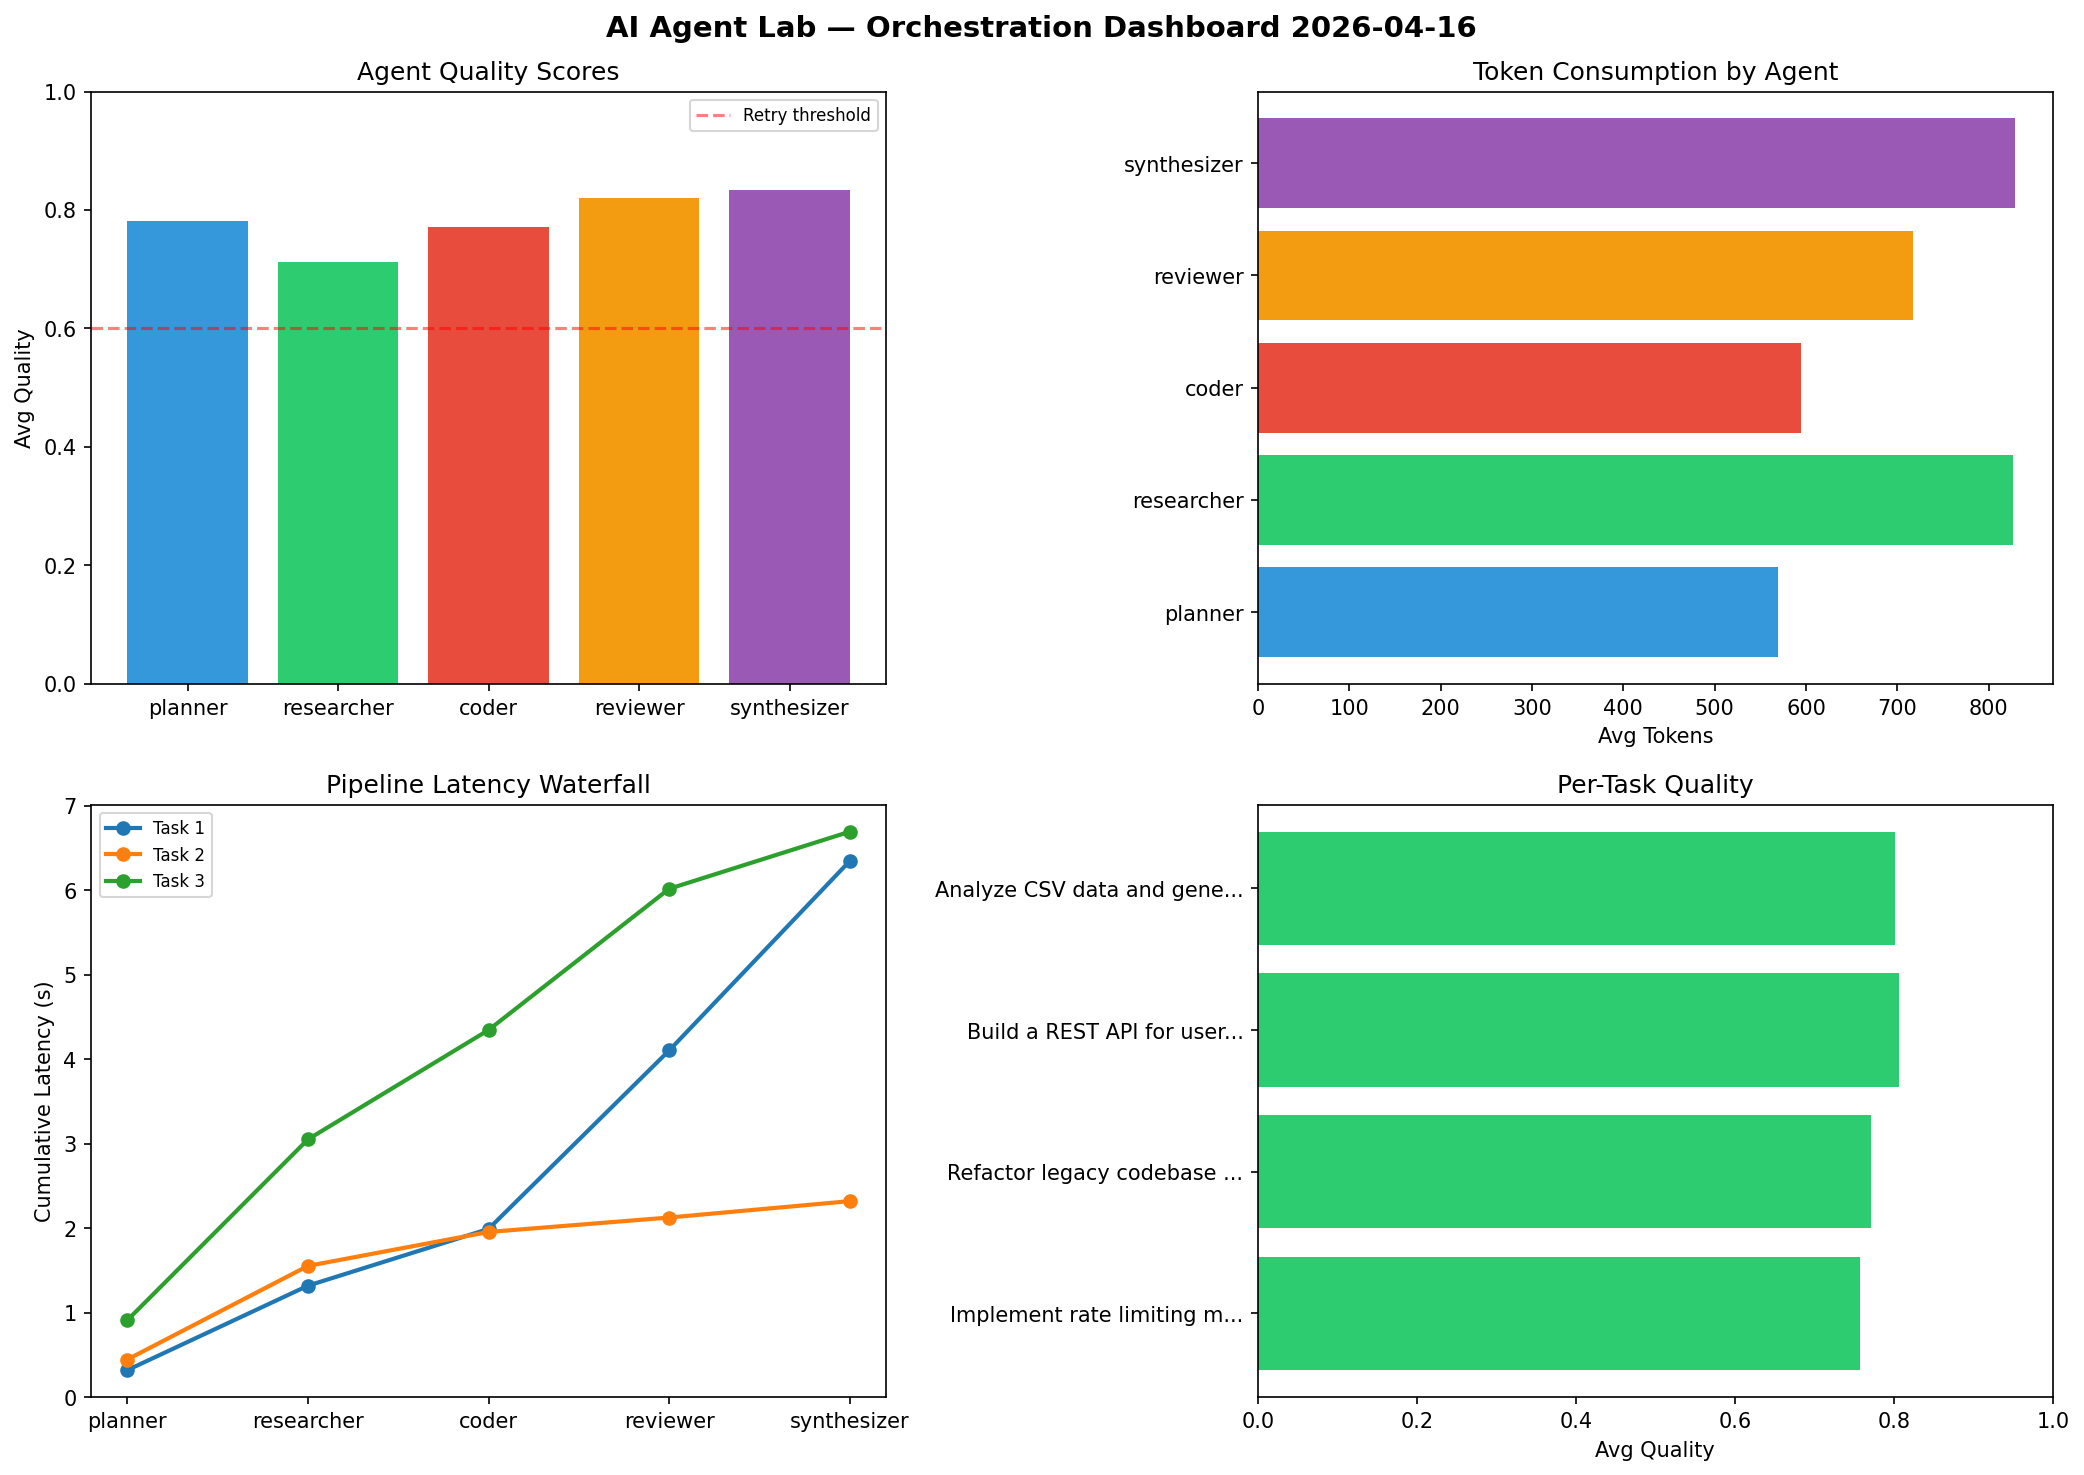
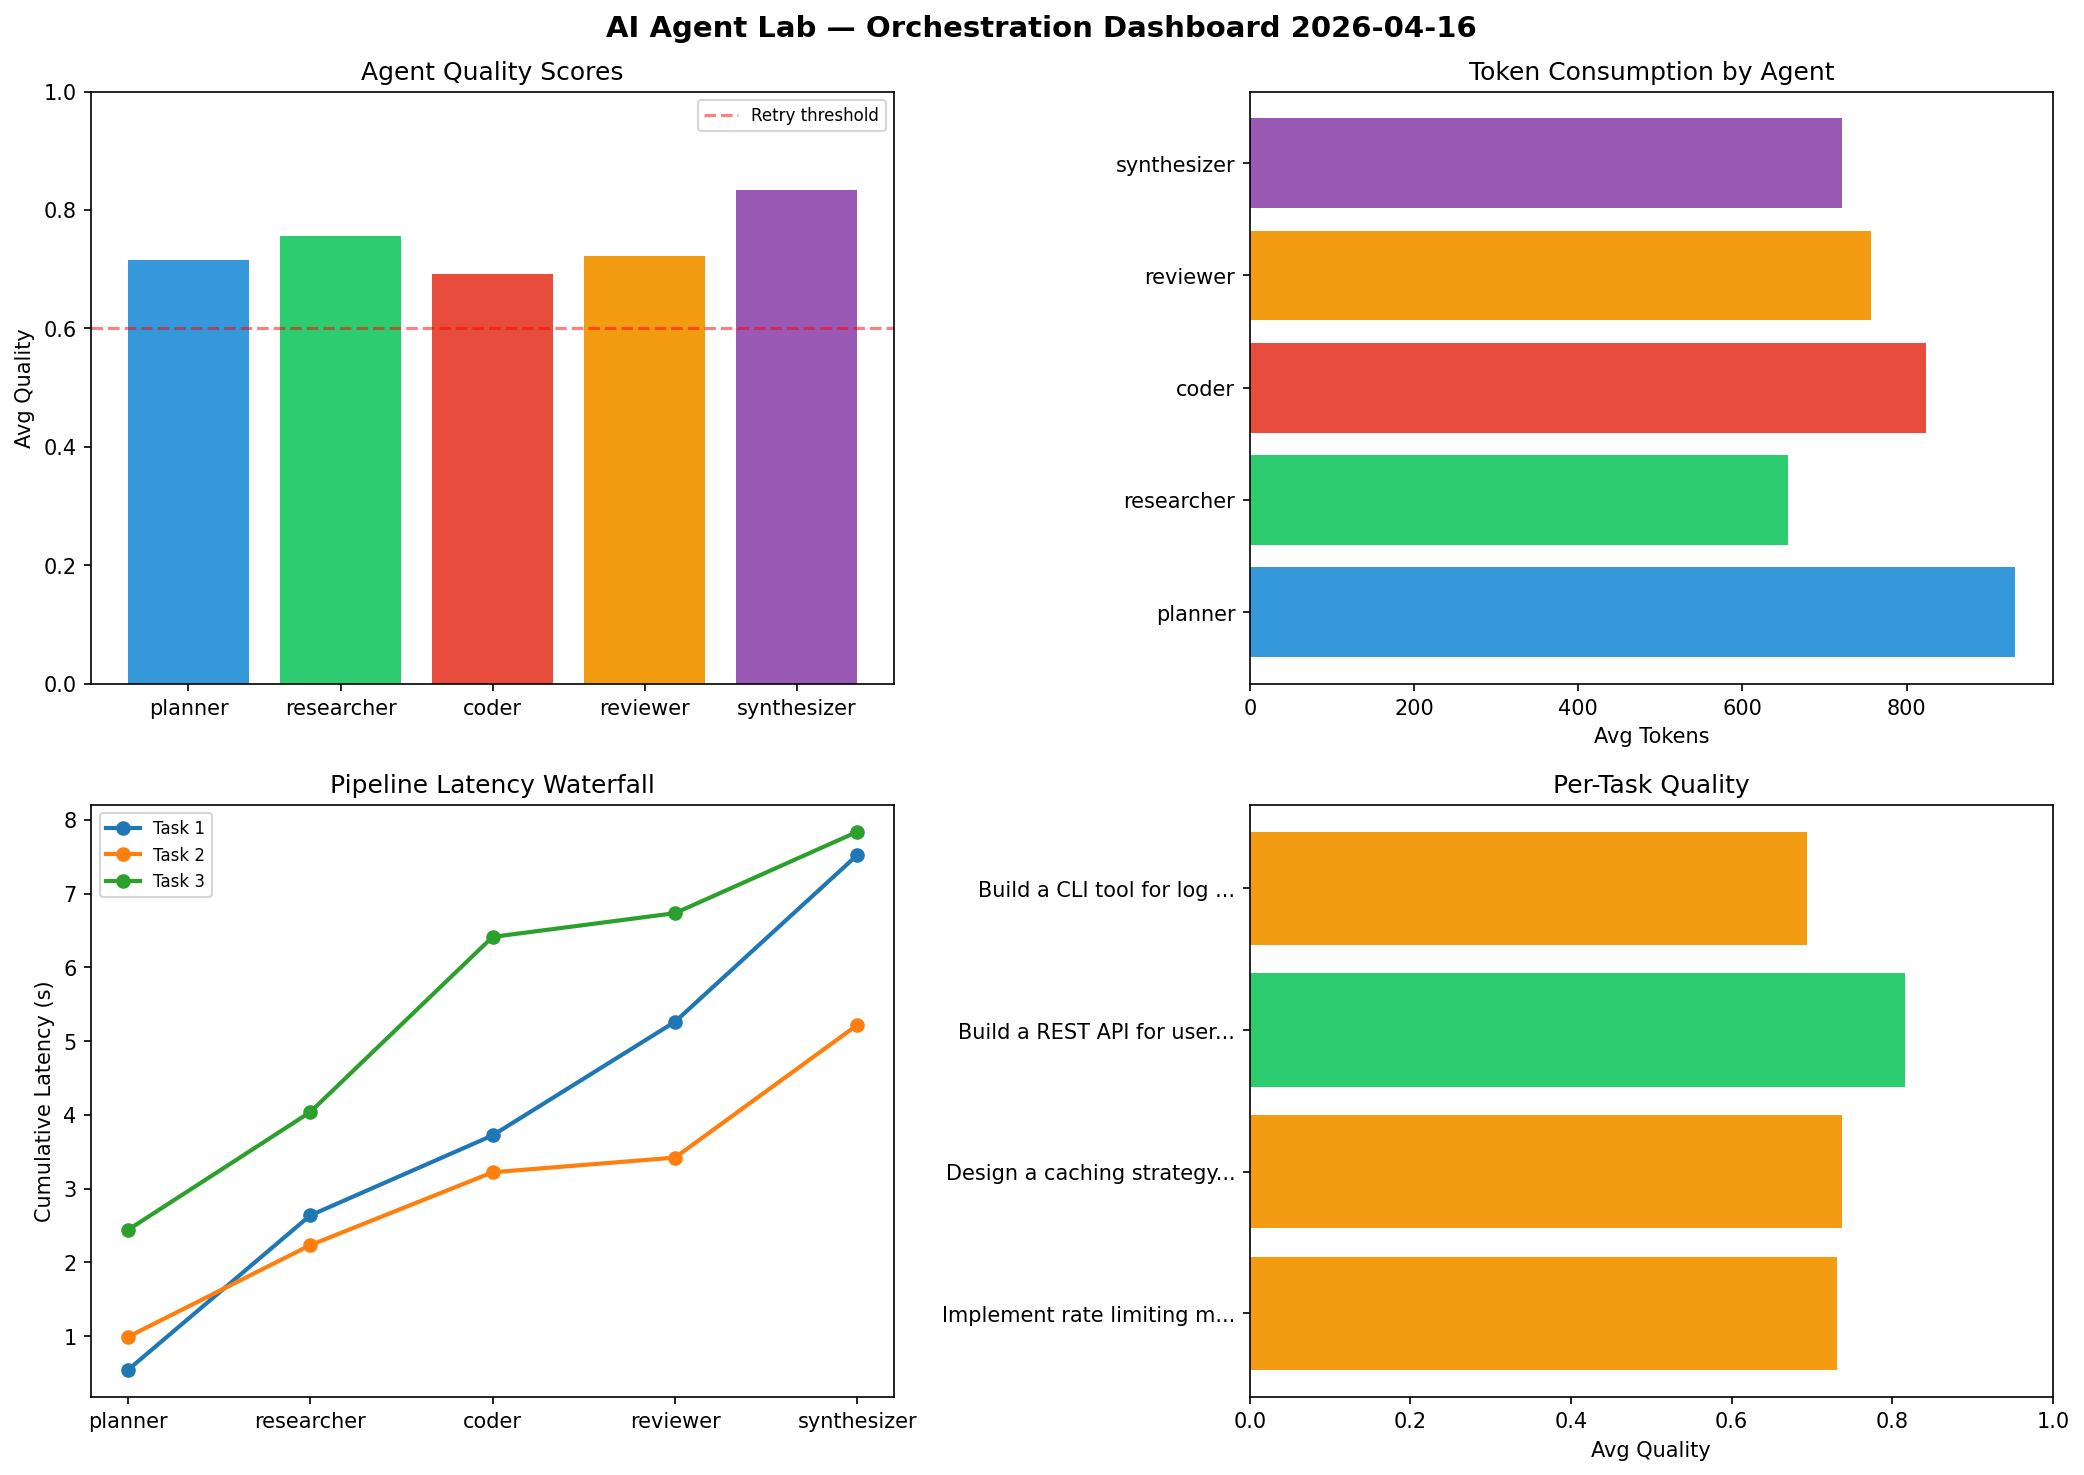
ai-agent-lab: orchestration run 2026-04-16T15:57

diff --git a/logs/2026-04-16.md b/logs/2026-04-16.md
@@ -1,6 +1,6 @@
 # AI Agent Lab — Orchestration Report 2026-04-16
 
-**Run ID:** `c1b2ca02b2` | **Tasks:** 4 | **Avg Quality:** 0.784
+**Run ID:** `771e3d435c` | **Tasks:** 4 | **Avg Quality:** 0.744
 
 ![Dashboard](2026-04-16_dashboard.png)
 
@@ -8,52 +8,52 @@
 
 | Metric | Value |
 |--------|-------|
-| avg_latency | 5.587 |
-| total_tokens | 14148 |
-| avg_quality | 0.784 |
+| avg_latency | 6.868 |
+| total_tokens | 15555 |
+| avg_quality | 0.744 |
 
 ## Delta vs Yesterday
 
 | Metric | Today | Yesterday | Change |
 |--------|-------|-----------|--------|
-| avg_latency | 5.587 | 4.559 | 📈 22.5% |
-| total_tokens | 14148 | 16024 | 📉 -11.7% |
-| avg_quality | 0.784 | 0.737 | 📈 6.4% |
+| avg_latency | 6.868 | 4.559 | 📈 50.6% |
+| total_tokens | 15555 | 16024 | 📉 -2.9% |
+| avg_quality | 0.744 | 0.737 | 📈 0.9% |
 
 ## Pipeline Results
 
 ### Implement rate limiting middleware
 | Agent | Quality | Latency | Tokens | Status |
 |-------|---------|---------|--------|--------|
-| planner | 0.823 | 0.318s | 503 | success |
-| researcher | 0.597 | 1.0s | 747 | needs_retry |
-| coder | 0.813 | 0.672s | 787 | success |
-| reviewer | 0.769 | 2.113s | 752 | success |
-| synthesizer | 0.781 | 2.243s | 537 | success |
+| planner | 0.723 | 0.538s | 874 | success |
+| researcher | 0.956 | 2.097s | 577 | success |
+| coder | 0.618 | 1.086s | 847 | success |
+| reviewer | 0.536 | 1.541s | 774 | needs_retry |
+| synthesizer | 0.823 | 2.263s | 699 | success |
 
-### Refactor legacy codebase to use dependency injection
+### Design a caching strategy for high-traffic endpoints
 | Agent | Quality | Latency | Tokens | Status |
 |-------|---------|---------|--------|--------|
-| planner | 0.598 | 0.444s | 477 | needs_retry |
-| researcher | 0.639 | 1.108s | 852 | success |
-| coder | 0.947 | 0.402s | 208 | success |
-| reviewer | 0.744 | 0.171s | 983 | success |
-| synthesizer | 0.927 | 0.194s | 1067 | success |
+| planner | 0.594 | 0.987s | 982 | needs_retry |
+| researcher | 0.697 | 1.245s | 390 | success |
+| coder | 0.738 | 0.989s | 1081 | success |
+| reviewer | 0.739 | 0.199s | 639 | success |
+| synthesizer | 0.917 | 1.8s | 532 | success |
 
 ### Build a REST API for user authentication
 | Agent | Quality | Latency | Tokens | Status |
 |-------|---------|---------|--------|--------|
-| planner | 0.93 | 0.909s | 685 | success |
-| researcher | 0.859 | 2.141s | 990 | success |
-| coder | 0.587 | 1.295s | 417 | needs_retry |
-| reviewer | 0.918 | 1.672s | 416 | success |
-| synthesizer | 0.737 | 0.676s | 748 | success |
+| planner | 0.792 | 2.437s | 1013 | success |
+| researcher | 0.752 | 1.599s | 873 | success |
+| coder | 0.715 | 2.376s | 611 | success |
+| reviewer | 0.975 | 0.322s | 892 | success |
+| synthesizer | 0.844 | 1.105s | 999 | success |
 
-### Analyze CSV data and generate statistical summary
+### Build a CLI tool for log analysis
 | Agent | Quality | Latency | Tokens | Status |
 |-------|---------|---------|--------|--------|
-| planner | 0.777 | 1.158s | 614 | success |
-| researcher | 0.756 | 1.697s | 719 | success |
-| coder | 0.736 | 1.302s | 965 | success |
-| reviewer | 0.852 | 0.365s | 718 | success |
-| synthesizer | 0.891 | 2.467s | 963 | success |
+| planner | 0.755 | 0.308s | 857 | success |
+| researcher | 0.62 | 0.779s | 781 | success |
+| coder | 0.698 | 2.053s | 755 | success |
+| reviewer | 0.642 | 1.948s | 724 | success |
+| synthesizer | 0.753 | 1.798s | 655 | success |
